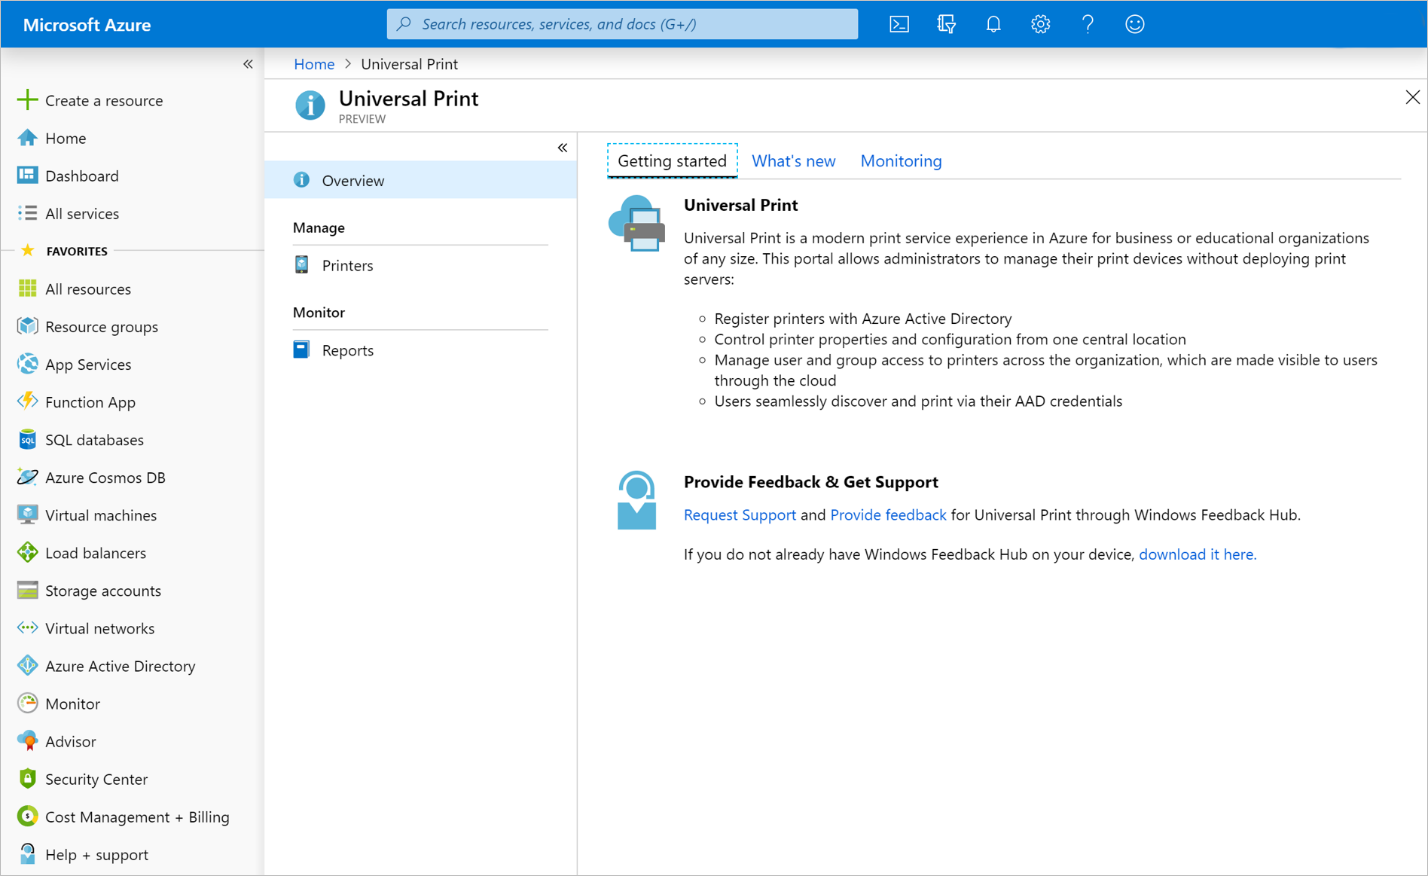
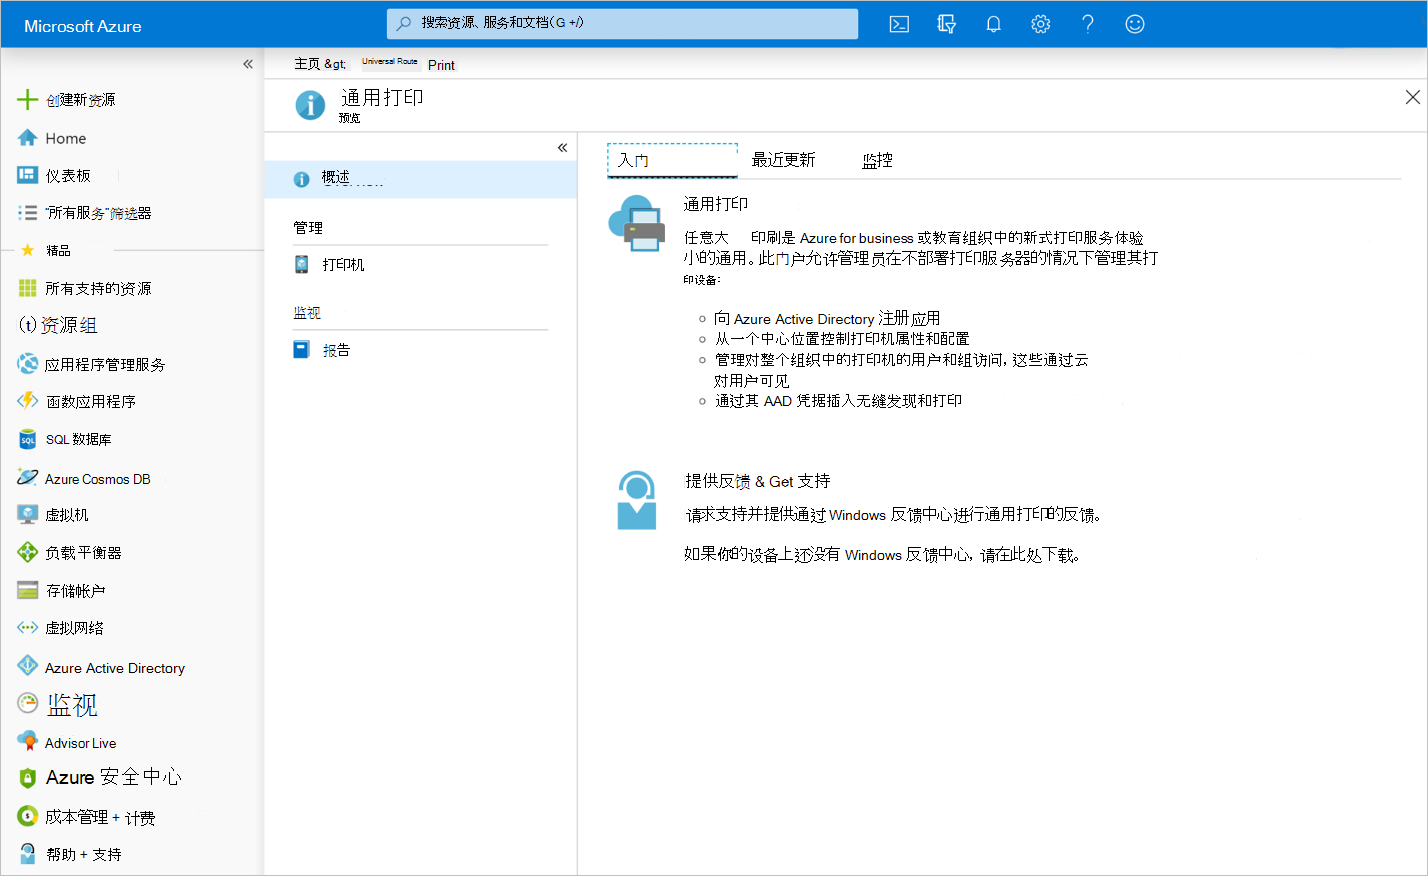
commit translated contents

diff --git a/concepts/universal-print-concept-overview.md b/concepts/universal-print-concept-overview.md
@@ -5,12 +5,12 @@ author: braedenp-msft
 localization_priority: Priority
 ms.prod: universal-print
 ms.custom: scenarios:getting-started
-ms.openlocfilehash: ac261be0012cc4d76fc0c41a6389b30c3c05cc73
-ms.sourcegitcommit: 7baf4847486885edf08ead533c76503cd31a98a4
+ms.openlocfilehash: 7a35c68acc3fd5d3d4f1750b9c3f2d80c3ed1985
+ms.sourcegitcommit: 66a52d2e63cf3447ec50bd28e562d99e7c344814
 ms.translationtype: HT
 ms.contentlocale: zh-CN
-ms.lasthandoff: 03/21/2020
-ms.locfileid: "42894373"
+ms.lasthandoff: 03/31/2020
+ms.locfileid: "43061921"
 ---
 # <a name="universal-print-api-overview"></a>通用打印 API 概述
 
@@ -69,4 +69,5 @@ ms.locfileid: "42894373"
 
 ## <a name="see-also"></a>另请参阅
 
-* 欢迎在 [UserVoice](https://microsoftgraph.uservoice.com/forums/920506-microsoft-graph-feature-requests) 上提供有关通用打印 API 的反馈！
+- [什么是通用打印](https://docs.microsoft.com/universal-print/fundamentals/universal-print-whatis)
+- 欢迎在 [UserVoice](https://microsoftgraph.uservoice.com/forums/920506-microsoft-graph-feature-requests) 上提供有关通用打印 API 的反馈！
